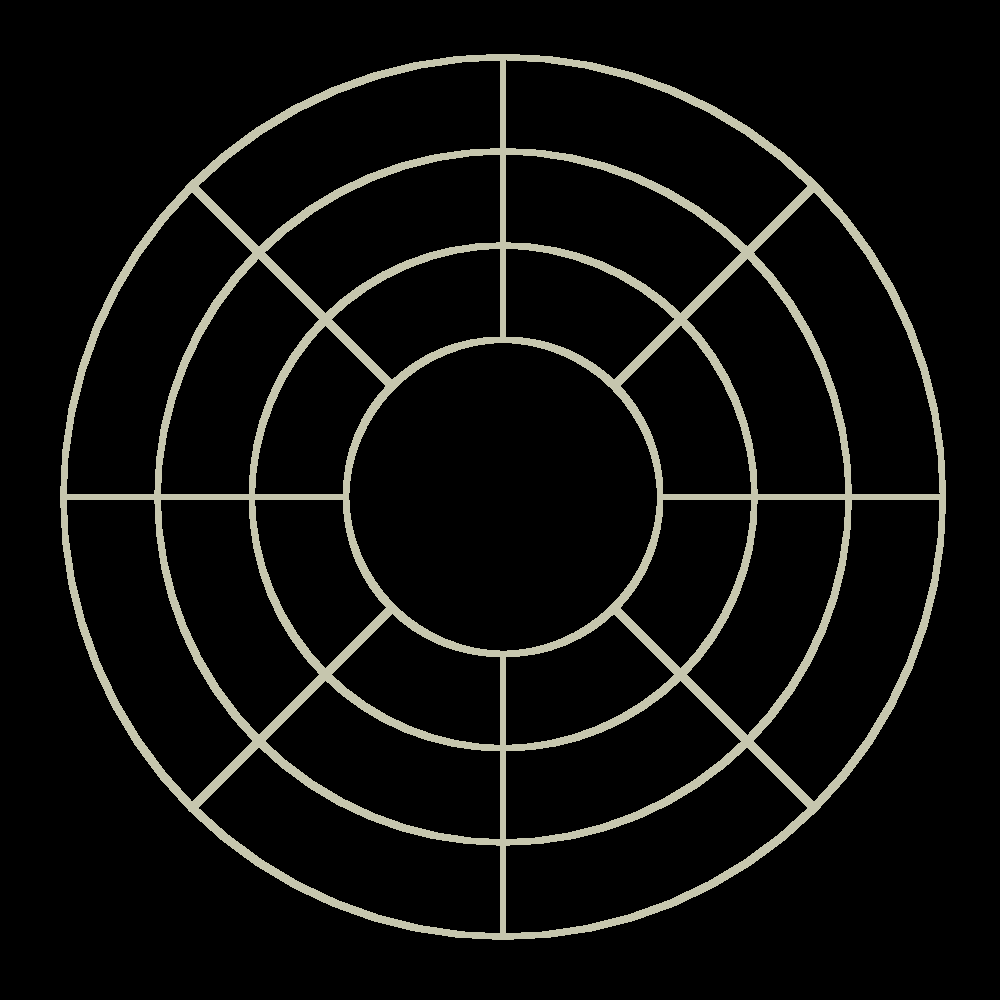
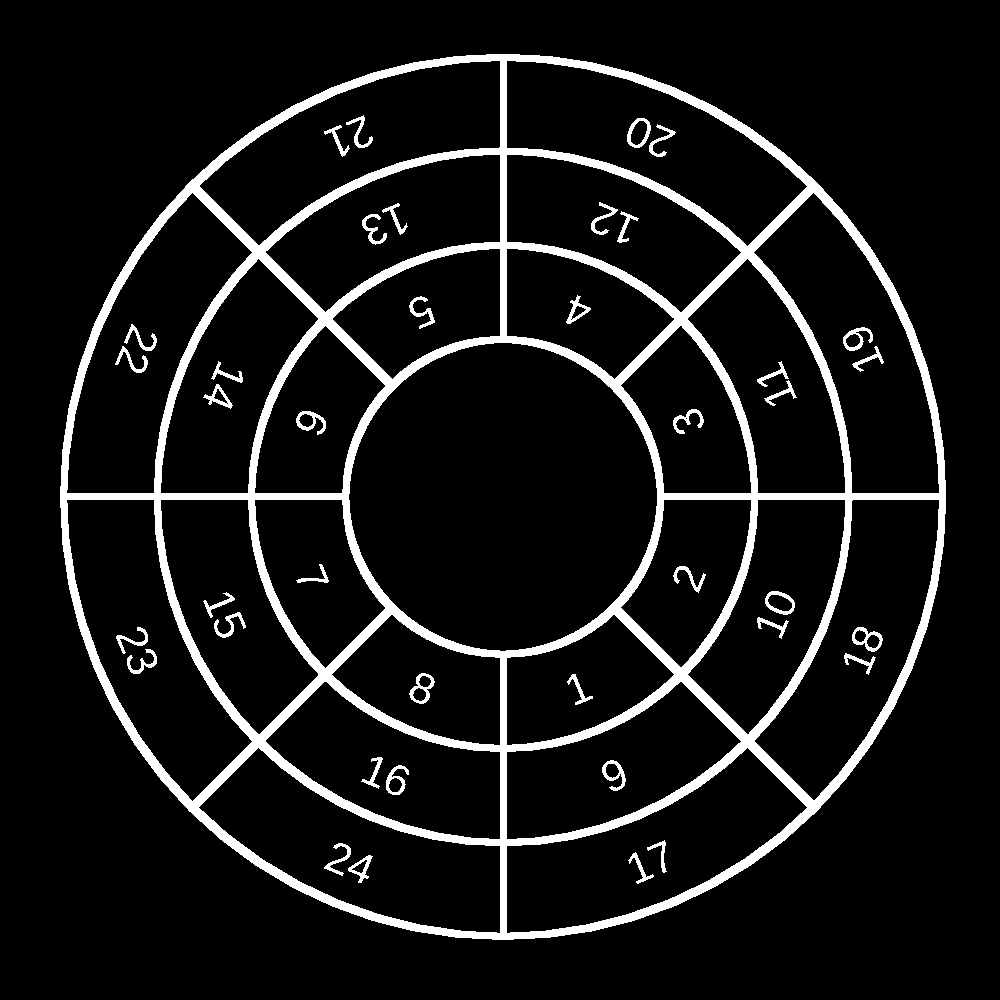
Finespun One habitat updates
- severely increased hull thickness (changes both to page text and openscad model)
- updated openscad model so that the sections have numbers physically on the wall
- updated the crosssection image to have section numbers
- created a map of finespun one floor area
- WIP document with math for the Finespun One habitat
- CSS update: centered styled images are now limited to maximum 98% page width

diff --git a/pages/finespun_one.html b/pages/finespun_one.html
@@ -9,9 +9,10 @@
 <article class="basics">
 Finespun Station One is the first of the rotating habitats constructed by <a href="felicity.html">Felicity</a> in orbit of the <a href="finespun.html">Finespun</a> asteroid.
 <br><br>
-It is crude and unable to hold air at standard terran atmospheric pressure.
-<br><br>
 On the left the station is shown with a section cut away to show the internal structure.
+The station design is at least locally considered notable for producing pleasantly round acceleration figures for each floor when the runway is calibrated to experience some multiple of 0.5m/s<sup>2</sup>.
+<br><br>
+The environment as a whole tends to be uncomfortable for guests as a result of the administrator being an odd kind of person that actually enjoys strong coriolis forces and the oddities of nonstandard atmosphere rather than trying to avoid them, but since there are rarely any guests, the rotation rate of the station is often adjusted to suit the visitors.
 </article>
 
 <hr>
@@ -28,17 +29,18 @@ On the left the station is shown with a section cut away to show the internal st
 </tr>
 <tr>
   <td class="tip" tip="Amount of mass per area of hull, relevant to radiation shielding. At 10 000 kg/m^2 the habitat hull provides radiation shielding equivalent to earth's atmosphere.">Aerial density</td>
-  <td id="table_hab_aerial_density">79kg/m<sup>2</sup></td>
+  <td id="table_hab_aerial_density">790kg/m<sup>2</sup></td>
 </tr>
 <tr>
   <td>Structural mass</td>
-  <td id="table_hab_mass">8 261 583 kg</td>
+  <td id="table_hab_mass">82 615 830 kg</td>
   <!Calculated by multiplying the structural volume below by the 7900kg/m^3 density of kamacite>
 </tr>
 <tr>
   <td>Structural volume</td>
-  <td>1045.77m<sup>3</sup></td>
+  <td>10457.7m<sup>3</sup></td>
   <!Calculated by exporting model from OpenSCAD as STL and putting it into Orca Slicer which returned "1.04577e+12mm^3">
+  <!I later decided to scale up the hull thickness from 0.01m to 0.1m due to bending too much under pressure>
 </tr>
 <tr>
   <td>Internal volume</td>
@@ -46,15 +48,15 @@ On the left the station is shown with a section cut away to show the internal st
 </tr>
 <tr>
   <td>Hull thickness</td>
-  <td id="table_hab_hull_thickness">0.01000 m</td>
+  <td id="table_hab_hull_thickness">0.1 m</td>
 </tr>
 <tr>
   <td>Provided centrifugal gravity</td>
-  <td id="table_hab_gravity">1.000 m/s<sup>2</sup> (0.102g )</td>
+  <td id="table_hab_gravity">5.6m/s<sup>2</sup>, 4.4m/s<sup>2</sup>, 3.2m/s<sup>2</sup></td>
 </tr>
 <tr>
   <td>Internal atmospheric pressure</td>
-  <td id="table_hab_pressure">21000.000 Pa (0.207 atm )</td>
+  <td id="table_hab_pressure">21 000 Pa (0.207 atm )</td>
 </tr>
 <tr>
   <td>Provided living area (3 floors)</td>
@@ -62,15 +64,11 @@ On the left the station is shown with a section cut away to show the internal st
 </tr>
 <tr>
   <td>Time to complete a rotation</td>
-  <td id="table_hab_rotation_time">52.569 s</td>
-</tr>
-<tr>
-  <td class="tip" tip="This is roughly how fast you would need to run inside the habitat to completely cancel out the centrifugal gravity.">Tangential velocity of outer hull</td>
-  <td>8.3666m/s</td>
+  <td id="table_hab_rotation_time">22.214 s</td>
 </tr>
 <tr>
   <td class="tip" tip="the number of times that the stress in the habitat would have to increase above what is already caused by its own rotation before it breaks - if the safety factor of a habitat is 3, that would mean the stress that it experiences from its own rotation and rated atmospheric pressure is 3 times less than what is required to break it">Safety factor</td>
-  <td id="table_hab_safety_factor">1.355</td>
+  <td id="table_hab_safety_factor">11.238</td>
 </tr>
 <tr><th colspan=2>hull material: <a href="ftt_low_temperature_electrolysis.html">electrolytic asteroidal kamacite</a></ht></tr>
   <tr><td>Density</td><td>7900kg/m<sup>3</sup></td></tr>
@@ -84,17 +82,22 @@ On the left the station is shown with a section cut away to show the internal st
 
 <article>
 
-Finespun One is made out of 10mm plates of kamacite, produced from the local asteroid regolith through <a href="ftt_low_temperature_electrolysis.html">low temperature electrolysis</a> and used without much further processing.
-Despite being made of a material not resistant to corrosion, it is filled with a low pressure pure-oxygen atmosphere, mainly due to the fact it is not strong enough to hold a full atmosphere of pressure.
-A trick borrowed from naval engineering is used to keep the structure from rusting too quickly - sacrificial anodes (in this case made of zinc) are mounted to the walls, which would preferentially rust first before the less electronegative iron is affected, additionally moisture level is kept low when reasonably possible.
-Despite the workarounds, the structure inevitably will rust through eventually, but is expected to remain safely usable for at least a century since construction with such maintenance.
+Finespun One is made out of 100mm thick kamacite plating, produced from the local asteroid regolith through <a href="ftt_low_temperature_electrolysis.html">low temperature electrolysis</a> and used without much further processing.
+<br><br>
+Despite being made of a material not resistant to corrosion, it is filled with a low pressure pure-oxygen atmosphere, mainly due to the fact that oxygen is a cheap byproduct of the local kamacite refining, whereas nitrogen-rich air would be expensive and necessitate more sophisticated airlock mechanisms that recover the air instead of venting it into space.
+<!A trick borrowed from naval engineering is used to keep the structure from rusting too quickly - sacrificial anodes (in this case made of zinc) are mounted to the walls, which would preferentially rust first before the less electronegative iron is affected, additionally moisture level is kept low when reasonably possible.>
+The structure inevitably will rust through eventually, but is expected to remain safely usable for at least another century.
 <br><br>
 <img class="styled left cardsize" src="../images/finespun_one_divisions.webp"></img>
 The station is divided into 24 sections that retain pressure independently.
-There are 3 levels to the ring, each 15m tall, with radii of 70m, 55m and 40m, producing apparent gravity of respectively 1m/s<sup>2</sup>, 0.786m/s<sup>2</sup> and 0.571m/s<sup>2</sup>.
+There are 3 levels to the ring, each 15m tall, with radii of 70m, 55m and 40m, producing apparent gravity of respectively 5.6m/s<sup>2</sup>, 4.4m/s<sup>2</sup> and 3.2m/s<sup>2</sup>.
 Each of these levels is also divided into 8 separate rooms along the ring.
-The "top" of the ring, which is exposed to space at a radius of 25m and centrifugal acceleration of 0.357m/s<sup>2</sup>, might be thought of as a landing zone for small spacecraft, mostly for the mining vessels that collect regolith from Finespun and bring it to the station for refining.
+<br><br>
+The "top" of the ring, which is exposed to space at a radius of 25m and centrifugal acceleration of 2m/s<sup>2</sup>, might be thought of as a landing zone for small spacecraft, mostly for the mining vessels that collect regolith from Finespun and bring it to the station for refining.
+It is often referred to as the "runway" because with the low tangential velocity of the hull there, space transport vehicles equipped with wheels can simply drive anti-spinwards at about 7m/s to completely cancel out the centrifugal acceleration, largely removing the need for powerful thrusters.
 </article>
+
+<img class="styled centered" src="../images/finespun_one_map.webp" style="max-height: 400px;"></img>
 
 <br class="division">
 

diff --git a/index.css b/index.css
@@ -26,7 +26,7 @@ input:disabled{
 /*PAGE-PART CLASSES START HERE*/
 html{
  color: white;
- font-family: sans-serif;
+ font-family: "Noto Sans", sans-serif;
  /*font-family: monospace; there's no good reason for it, I just like the look of monospace fonts*/
 }
 .background1{
@@ -201,6 +201,7 @@ img.styled{
 /*if the image is both centered AND styled*/
 img.centered.styled{
  margin: 6px auto;
+ max-width: 98%;
 }
 
 img.cardsize{
@@ -612,6 +613,10 @@ div.thread{
   word-break: break-all;
 }
 
+.monospace{
+  font-family: monospace;
+  font-size: 125%;
+}
 
 /*COLOR CODING CHARACTERS & STUFF*/
 c1{

diff --git a/documents/finespun_one/finespun_one.tex b/documents/finespun_one/finespun_one.tex
@@ -1,0 +1,150 @@
+\documentclass[a4paper]{article}
+\usepackage[margin=3cm]{geometry}
+\usepackage{graphicx}
+
+\usepackage{hyperref}
+\hypersetup{
+	colorlinks=true,
+	linkcolor=blue,
+	filecolor=magenta,
+	urlcolor=cyan,
+	hyperindex=true,
+	linktocpage=true,%makes the page number be the link in the index
+}
+\usepackage{listings}
+\lstset{
+	basicstyle=\tiny\ttfamily,
+	columns=fullflexible,
+	keepspaces=true,
+	breaklines=true,
+	frame=single,
+	showstringspaces=true,
+	tabsize=4,
+	showspaces=true,
+	showtabs=true,
+}
+
+\renewcommand{\arraystretch}{1.2}
+
+\title{Finespun One station design calculations}
+
+\author{Chaya2766}
+
+\date{last updated \today}
+
+\begin{document}
+	\sffamily
+	\hyphenchar\font=-1
+	\sloppy
+	
+	\maketitle
+	
+	\textbf{
+		\sloppy
+		\hyphenchar\font=-1
+		}
+	
+	\vfill
+	
+	\begin{abstract}
+		Abstract goes here
+	\end{abstract}
+	
+	\vfill
+	
+	\begin{quote}
+		\begin{center}
+			\textbf{DISCLAIMER AND WARNING}
+		\end{center}
+		
+		This is not a scientific paper or engineering advice.
+		This document is only intended as creative world‑building and has not been peer‑reviewed or approved for any practical application.
+		Use of these ideas in real‑world designs or other serious application is entirely at the reader’s discretion and risk.
+	\end{quote}
+	
+	%\noindent \rule{\linewidth}{1pt}
+	\vfill
+	
+	\tableofcontents
+	
+	\pagebreak
+	
+	\section{Internal structure}
+	
+	The habitat is to be a ring with inner radius of 25m and outer radius of 70m.
+	The internal space is further divided into 3 floors, each 15m tall.
+	Each floor is further segmented into 8 rooms with a vertical wall, thus producing 24 segments.
+	
+	\medskip
+	
+	todo
+    
+	\pagebreak
+	
+	\section{Bending of dividing walls}
+	
+    Dividing walls are rectangles sized 15m by 50m, held in place by being one solid part together with the rest of the station.
+    
+    \medskip
+    
+    Maximum deflection of a uniformly loaded rectangular plate is given by the following equation:
+    
+    $$ \omega_{max} = \alpha\frac{qa^4}{D} $$
+        
+    where:
+    
+    \begin{itemize}
+    	\item $\alpha$ is a numerical factor depending on the ratio of length/width of the sides of the plate
+    	
+    	\item $q$ is the intensity of a continuously distributed load (ie. pressure difference acting on the plate)
+    	
+    	\item $a$ is the shorter edge of the plate
+    	
+    	\item $D$ is the flexural rigidity of the plate
+    \end{itemize}
+    
+    For length/width ratio of 3.333 the alpha value is approximately 0.01223.
+    
+    (source: "Theory of plates and shells" by S. Timoshenko and S. Woinowsky-Krieger, second edition - equation on page 117 and alpha values table on page 120)
+    
+    \begin{center}
+    	\rule{0.8\linewidth}{0.5pt}
+    \end{center}
+	
+	The flexural rigidity of the plate (parameter $D$) is calculated like this:
+	
+	$$ D =  \frac{E h_e^3}{12 \cdot (1 - \nu^2)}$$
+	
+	where:
+	
+	\begin{itemize}
+		\item $D$ is the flexural rigidity of the plate
+		
+		\item $E$ is Young's Modulus
+		
+		\item $h_e$ is elastic thickness (here it is just the actual thickness of the plate)
+		
+		\item $\nu$ is Poisson's Ratio
+	\end{itemize}
+	
+	(source: \href{https://en.wikipedia.org/wiki/Flexural_rigidity}{"Flexural rigidity" wikipedia page}, accessed 17th of april 2026)
+	
+	Poisson's Ratio for steel is around 0.27 to 0.3, for cast iron is 0.21 to 0.26.
+	Given that the station is made of kamacite, a type of nickle-rich meteoric iron, I will assume 0.27 as if it were a kind of steel.
+	
+	\begin{center}
+		\rule{0.8\linewidth}{0.5pt}
+	\end{center}
+	
+	$$ D = \frac{200GPa \cdot (100mm)^3}{12 \cdot (1 - 0.27^2)} = 17977204.9 J $$
+	
+	$$ \omega_{max} = 0.01223 \frac{21kPa \cdot (15m)^4}{17977204.9 J} = 0.7232502952 m $$
+	
+	$$ \omega_{max} = 0.01223 \frac{100kPa \cdot (15m)^4}{17977204.9 J} = 3.444049025 m $$
+	
+	Wall thickness of 0.1m appears to be adequate.
+	I derived it by just repeatedly running the calculations above with increasingly larger thickness until the maximum deflection was satisfyingly small.
+	The dividing walls would still noticeably bulge inwards on a depressurized section in the habitat due to the pressure but the amount seems acceptable.
+	Given that the caps of the habitat are also flat and at maximum roughly the same size as the dividing walls, they too would be noticeably bulged outwards into space by the habitat's internal pressure.
+	
+\end{document}
